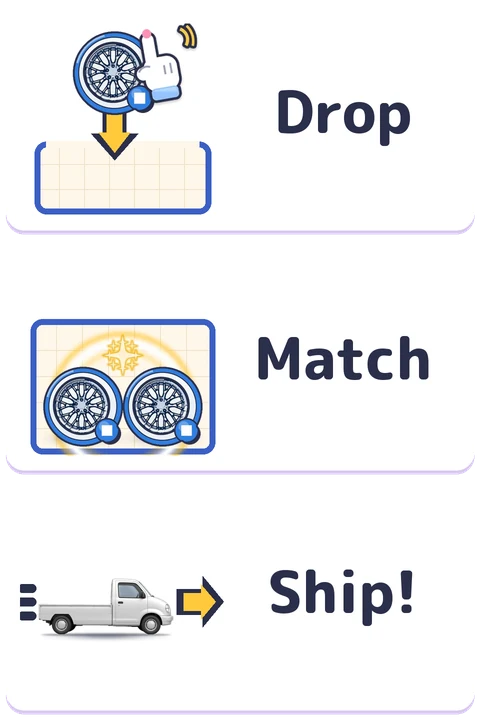
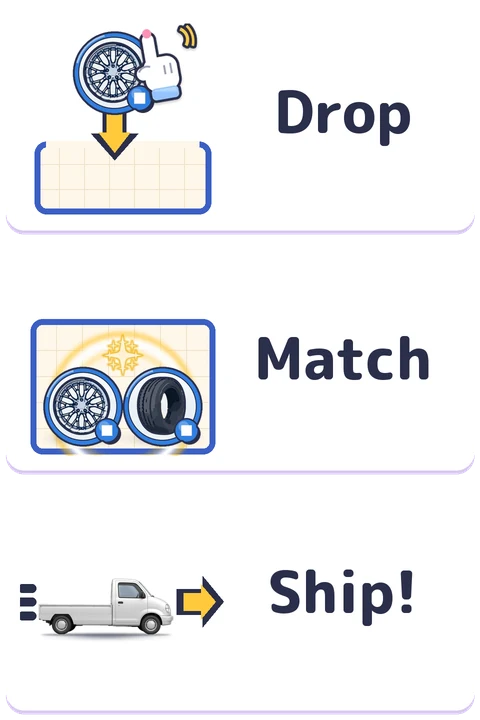
Parts Pop Factory Ver1.0.0-rc (feedback fixes)

Changed region(s): [[0.25, 0.5194, 0.4062, 0.6111]]

diff --git a/index.html b/index.html
@@ -35,17 +35,19 @@
   .ov.loading > h1, .ov.loading > #loadBox{display:block!important}
   #pauseBest{font-size:16px;margin:2px 0 4px}
   /* ボタン：主（黄）と副（白）は あーとの 9-slice（角44px・下に6pxの厚み）。押すと沈む */
-  button{font-family:var(--font);font-weight:800;font-size:20px;padding:4px 18px;margin:8px;min-height:44px;color:var(--ink);background:transparent;border-style:solid;border-width:18px;border-color:transparent;border-image:url('assets/ui/btn_primary_9s.webp') 44 fill / 18px stretch;border-radius:0;line-height:1.2}
+  /* v1.00-rc 11/12：文字をボタンの面の真ん中に（Android で「Play again」が下の縁にかかっていた）。9-slice 下の厚みぶん、下の余白を少し多めに */
+  button{font-family:var(--font);font-weight:800;font-size:20px;padding:0 18px 6px;margin:8px;min-height:44px;color:var(--ink);background:transparent;border-style:solid;border-width:18px;border-color:transparent;border-image:url('assets/ui/btn_primary_9s.webp') 44 fill / 18px stretch;border-radius:0;line-height:1;display:inline-flex;align-items:center;justify-content:center;text-align:center;-webkit-appearance:none;appearance:none;vertical-align:middle}
   button:active{transform:translateY(3px)}
   button.sec,#howBtn,#introReplayBtn,#howBtn2,#muteBtn2,#howNo,#shareBtn,#retryNoBtn,#langRow button{border-image-source:url('assets/ui/btn_secondary_9s.webp')}
   #langRow{margin-top:10px}
+  #langRow.hidden{display:none}
   #langRow button{font-size:15px;padding:0 10px;border-width:14px;border-image-width:14px;opacity:.75}
   #langRow button.on{opacity:1;border-image-source:url('assets/ui/btn_primary_9s.webp')}
   h1{margin:0 0 6px;color:var(--ink);text-shadow:0 2px 0 #fff,0 0 8px rgba(255,255,255,.9)}
   #ovText{margin:6px 0;font-size:15px;line-height:1.5}
-  #startBtn{font-size:26px;padding:4px 36px;border-width:22px;border-image-width:22px}
-  #howBtn,#introReplayBtn,#howBtn2,#muteBtn2,#howNo,#shareBtn{font-size:16px;padding:0 14px;border-width:16px;border-image-width:16px}
-  #howBtn.hidden{display:none}
+  #startBtn{font-size:26px;padding:0 36px 8px;border-width:22px;border-image-width:22px;min-height:52px}
+  #howBtn,#introReplayBtn,#howBtn2,#muteBtn2,#howNo,#shareBtn{font-size:16px;padding:0 14px 6px;border-width:16px;border-image-width:16px}
+  #howBtn.hidden,#catBtn2.hidden,button.hidden{display:none}
   #howBtn:disabled{opacity:.5}
   #startBtn:disabled{opacity:.6;filter:grayscale(.6)}
   #shareBtn.hidden{display:none}
@@ -110,18 +112,28 @@
   @media (max-height: 560px){ .steps3{margin:4px auto;padding:4px 8px} .steps3 .stHand,.steps3 .stPair,.steps3 .stCar{height:44px} .steps3 .stHand{width:44px} }
   .steps3[hidden]{display:none}
   img.howto3{display:block;width:min(480px,92vw);height:auto;margin:6px auto}
-  @media (max-height: 560px){ img.howto3{width:min(330px,92vw);margin:2px auto} }
+  @media (max-height: 560px){
+    img.howto3{width:min(300px,92vw);margin:1px auto}
+    #pauseOv button, #overlay button{margin:3px 8px}
+    #pauseBest{font-size:15px;margin:0 0 2px}
+    #pauseOv h1, #overlay h1{margin:0 0 2px}
+    #pauseOv{padding:0 10px 6px}
+  }
   #howConfirm{overflow-y:auto;justify-content:safe center!important}
   /* v0.9.9 C6：設定画面 */
-  #setOv{position:absolute;inset:0;display:flex;flex-direction:column;align-items:center;justify-content:safe center;gap:8px;background:#FFF7EA;padding:14px;text-align:center;overflow-y:auto}
+  #setOv{position:absolute;inset:0;z-index:40;display:flex;flex-direction:column;align-items:center;justify-content:safe center;gap:8px;background:#FFF7EA;padding:14px;text-align:center;overflow-y:auto}
   #setOv.hidden{display:none!important}
   #setOv h2{margin:0 0 4px;font-size:22px;color:var(--ink)}
   #setOv button.tg{min-width:230px;font-size:17px;border-image-source:url('assets/ui/btn_secondary_9s.webp');padding:0 14px;border-width:16px;border-image-width:16px}
   #setOv button.tg.off{opacity:.8}
   #setOv button.tg b{color:#2F7D4F}#setOv button.tg.off b{color:#8A6A00}
   #credits{font-size:14px;line-height:1.55;color:var(--ink);background:#fff;border:2px solid var(--lav);border-radius:12px;padding:8px 14px;max-width:min(360px,92vw)}
-  #setBack,#setBtn{font-size:16px;padding:0 14px;border-width:16px;border-image-width:16px;border-image-source:url('assets/ui/btn_secondary_9s.webp')}
-  @media (max-height: 560px){ #setOv{gap:4px;padding:6px} #setOv h2{font-size:18px} #credits{font-size:14px;line-height:1.35;padding:4px 10px} }
+  #setBack,#setBtn,#titleSetBtn{font-size:16px;padding:0 14px;border-width:16px;border-image-width:16px;border-image-source:url('assets/ui/btn_secondary_9s.webp')}
+  #titleSetBtn.hidden{display:none}
+  #titleBest{font-size:18px;line-height:1.3;margin:6px 0 4px;color:var(--ink);font-weight:800}
+  #titleBest:empty{display:none}
+  .howNote{font-size:15px;line-height:1.4;margin:4px auto 6px;max-width:min(440px,94vw);color:var(--ink);font-weight:800}
+  @media (max-height: 560px){ #setOv{gap:4px;padding:6px} #setOv h2{font-size:18px} #credits{font-size:14px;line-height:1.35;padding:4px 10px} #titleBest{font-size:16px;margin:2px 0} .howNote{font-size:14px;line-height:1.3;margin:2px auto 4px} }
   #howImg.h{width:min(480px,92vw);height:auto}
   #howImg.v{width:min(72vw,340px);height:auto}
   /* v0.9.8 監査2：横長の左の板に道すじ */
@@ -179,9 +191,12 @@
     <h1 id="gameTitle">パーツポン！工場</h1>
     <div id="loadBox"><div id="loadBar"><div id="loadFill"></div></div><div id="loadPct">0%</div></div>
     <img id="flowTitle" class="howto3" alt="" onerror="this.hidden=true;this.nextElementSibling.hidden=false"><div class="steps3" hidden role="img"><div class="st"><div class="stHand"></div><b class="stT" data-k="step_drop"></b></div><span class="stA">→</span><div class="st"><div class="stPair"><img src="assets/parts_v3/badge_wheel.webp" alt=""><img src="assets/parts_v3/badge_tire.webp" alt=""></div><b class="stT" data-k="step_match"></b></div><span class="stA">→</span><div class="st"><img class="stCar" src="assets/cars/car_lv1_kei.webp" alt=""><b class="stT" data-k="step_ship"></b></div></div>
+    <p class="howNote" id="howNoteTitle"></p>
+    <div id="titleBest"></div>
     <div id="ovText"></div>
     <button id="startBtn" disabled>読み込み中…</button>
     <button id="howBtn" disabled>遊び方</button>
+    <button id="titleSetBtn" class="sec hidden">⚙ 設定</button>
     <script>(function(){ var q = new URLSearchParams(location.search).get('lang'); var l = (q==='ja'||q==='en') ? q : ((navigator.language||'').slice(0,2)==='ja' ? 'ja' : 'en'); if (l==='en'){ document.getElementById('startBtn').textContent='Loading…'; document.getElementById('howBtn').textContent='How to play'; } })();</script>
     <button id="catBtn2" class="hidden"></button>
     <button id="shareBtn" class="hidden"></button>
@@ -191,27 +206,29 @@
   <div id="pauseOv" class="ov hidden">
     <h1 id="pauseTitle"></h1>
     <img class="howto3" alt="" onerror="this.hidden=true;this.nextElementSibling.hidden=false"><div class="steps3" hidden role="img"><div class="st"><div class="stHand"></div><b class="stT" data-k="step_drop"></b></div><span class="stA">→</span><div class="st"><div class="stPair"><img src="assets/parts_v3/badge_wheel.webp" alt=""><img src="assets/parts_v3/badge_tire.webp" alt=""></div><b class="stT" data-k="step_match"></b></div><span class="stA">→</span><div class="st"><img class="stCar" src="assets/cars/car_lv1_kei.webp" alt=""><b class="stT" data-k="step_ship"></b></div></div>
+    <p class="howNote" id="howNotePause"></p>
     <button id="resumeBtn"></button>
     <button id="introReplayBtn"></button>
     <button id="howBtn2"></button>
     <button id="catBtn"></button>
     <button id="setBtn"></button>
     <div id="pauseBest"></div>
-    <div id="setOv" class="hidden">
-      <h2 id="setTitle"></h2>
-      <button id="muteBtn2" class="tg"></button>
-      <button id="bgmBtn" class="tg"></button>
-      <button id="motionBtn" class="tg"></button>
-      <div id="langRow2" style="margin-top:4px"><button id="langJa2" class="sec" style="font-size:15px;padding:0 10px;border-width:14px;border-image-width:14px">日本語</button><button id="langEn2" class="sec" style="font-size:15px;padding:0 10px;border-width:14px;border-image-width:14px">English</button></div>
-      <div id="credits"><b id="credL"></b><br>Music: "Happy Vibes" by Ruskerdax (CC0)<br>Font: M PLUS Rounded 1c (SIL OFL 1.1)<br>Physics: Matter.js (MIT)<br>Game: Timemachine0</div>
-      <button id="setBack"></button>
-    </div>
     <div id="howConfirm" class="hidden" style="position:absolute;inset:0;display:flex;flex-direction:column;align-items:center;justify-content:center;gap:12px;background:#FFF7EA;padding:24px;text-align:center">
       <img id="howImg" alt="">
+      <p class="howNote" id="howNoteHow"></p>
       <p id="howConfirmText" style="color:#2B2F4A;font-weight:800;font-size:17px;line-height:1.5;margin:0 0 6px"></p>
       <button id="howYes"></button>
       <button id="howNo"></button>
     </div>
+  </div>
+  <div id="setOv" class="hidden">
+    <h2 id="setTitle"></h2>
+    <button id="muteBtn2" class="tg"></button>
+    <button id="bgmBtn" class="tg"></button>
+    <button id="motionBtn" class="tg"></button>
+    <div id="langRow2" style="margin-top:4px"><button id="langJa2" class="sec" style="font-size:15px;padding:0 10px;border-width:14px;border-image-width:14px">日本語</button><button id="langEn2" class="sec" style="font-size:15px;padding:0 10px;border-width:14px;border-image-width:14px">English</button></div>
+    <div id="credits"><b id="credL"></b><br>Music: "Happy Vibes" by Ruskerdax (CC0)<br>Font: M PLUS Rounded 1c (SIL OFL 1.1)<br>Physics: Matter.js (MIT)<br>Game: Timemachine0</div>
+    <button id="setBack"></button>
   </div>
   <div id="catOv" class="ov hidden" role="dialog">
     <h1 id="catTitle"></h1>
@@ -559,7 +576,7 @@ const CONFIG = {
   badArtAlso: ['screw','door_window'],   // DR3：ドア／組みかけドアは不良材料から作ると不良絵
   // --- 最初の1回だけの説明（docs/tutorial_spec.md） ---
   // --- v0.9.8 C2：最初の30秒 ---
-  autoStart: true,          // 読み込みが終わったら自動で始める（タイトル画面なし・0タップ）。URL ?autostart=0 で前のタイトル画面（確認用）
+  autoStart: false,         // v1.00-rc 11/12：読み込みのあとタイトル画面。スタートボタンで始める（どこをタップしても始まらない）。テスト用ビルドだけ ?autostart=1 で以前の自動開始
   firstWaitMaxSec: 10,      // 自動で始まったゲームの最初の部品は、最初の操作（触る・キー・マウスを動かす）まで投下の時間を止める（上限・実時間秒）
   onboardPictures: true,    // 説明は絵の3つだけ（指マーク／光る相手＋点線／×→箱の矢印）。ほかの文の説明は出さない
   onbHandSize: 84, onbHandDy: 96, onbHandSwing: 70, onbHandPeriod: 1.2,   // 指マーク（hand_drag.webp 2コマ）：大きさ・持つ位置からの下の距離・左右のふれ幅・周期（秒）
@@ -714,6 +731,11 @@ const ART_MANIFEST = {
   tierParts: ['badge_door','badge_door_bad','badge_door_window','badge_door_window_bad','badge_engine','badge_glass','badge_glass_bad','badge_hinge','badge_hinge_bad',
               'badge_panel','badge_tire_wheel','badge_wheel','badge_wheel_bad'],
   // v0.9.8：遊び方の絵（あーと 2026-11-09 納品・README_handoff 6章）。横 960x320＝320x320 のマス×3、縦 480x720＝480x240 のマス×3
+  // v1.00-rc 11/12：遊び方「そろえる／Match」は、あーと最終版（青いホイール＋タイヤがくっつく絵、art_snapshot_0909）。また差し替えるときは下の 4 ファイルを同じ名前・同じ大きさで上書きするだけ（コードは変えない。swap_art.py でも可）。
+  //   assets/ui/howto3_ja.webp      960×320（横、Match は x=320..640 の 320×320）
+  //   assets/ui/howto3_en.webp      960×320
+  //   assets/ui/howto3_ja_v.webp    480×720（縦、Match は y=240..480 の 480×240）
+  //   assets/ui/howto3_en_v.webp    480×720
   uiDir: 'assets/ui/', howto: [ {file:'howto3_ja', w:960, h:320}, {file:'howto3_en', w:960, h:320}, {file:'howto3_ja_v', w:480, h:720}, {file:'howto3_en_v', w:480, h:720} ],
   howtoCell: { h:{ w:320, h:320, dx:320, dy:0 }, v:{ w:480, h:240, dx:0, dy:240 } },
   carDir: 'assets/cars/', silhouetteDir: 'assets/cars/silhouette/',
@@ -938,7 +960,7 @@ const TEXT = {
     tut_move:'指で左右に動かして、はなすと落ちるよ', tut_merge:'同じ色の部品どうしをくっつけると組み上がる', tut_car:'部品が全部そろうと車が1台できる！',
     tut_bad:'×の付いた部品は端の不適合品箱へ', tut_scrap:'良い部品を捨てるとお金が減るよ', tut_mechanic:'整備士は不良品にぶつかると直してくれる',
     tut_wait:'相手がまだ箱にないよ。先に置いておこう', tut_lines:'上の丸＝ボディ、下の丸＝シャシーのライン', tut_marriage:'灰色どうしをくっつけるとマリッジ！', tut_claim:'×の部品が入ったまま出すとクレーム', howConfirm:'今のゲームを終えて、説明つきで始めますか？', yes:'はい', back:'もどる', introShort:'スライドして離すと落ちる。同じ色をくっつけて車を作ろう！',
-    tut_skip:'説明をとばす', onb_bin:'×→🗑', onb_ok:'OK！', loading:'読み込み中…', bestLine:s=>`ベスト ${s}`, howToPlay:'遊び方', tut_merge_ok:'いいね！', tut_bad_ok:'OK！不良品はただで捨てられるよ',
+    tut_skip:'説明をとばす', onb_bin:'×→🗑', onb_ok:'OK！', loading:'読み込み中…', bestLine:s=>`ベスト ${s}`, howToPlay:'遊び方', howSame:'同じ絵柄どうしはくっつかず、片方が消えます', tut_merge_ok:'いいね！', tut_bad_ok:'OK！不良品はただで捨てられるよ',
     retry_title:'ラインがいっぱい！ つづける？', retry_sub:'上の部品を1段かたづけて、1回だけつづけられるよ',
     retry_ad:'📺 広告を見てつづける', retry_free:'つづける', retry_no:'結果を見る', retry_loading:'広告を読みこみ中…',
     retry_ok:'つづけます！', retry_grace:'つづき！', retry_ad_fail:'広告を出せませんでした。またあとで試してね',
@@ -979,7 +1001,7 @@ const TEXT = {
     tut_move:'Slide left or right, then let go to drop', tut_merge:'Match same-color parts to build them up', tut_car:'All parts in place makes a car!',
     tut_bad:'Drag parts with × to the reject bin at either edge', tut_scrap:'Scrapping good parts costs you money', tut_mechanic:'The mechanic fixes a bad part it touches',
     tut_wait:'No match yet. Drop it, its pair will come', tut_lines:'Top row = body line, bottom = chassis', tut_marriage:'Join the two gray parts: Final assembly!', tut_claim:'Ship a car with a × part: complaint!', howConfirm:'End this game and start with the tutorial?', yes:'Yes', back:'Back', introShort:'Slide, release to drop. Match colors to build a car!',
-    tut_skip:'Skip tutorial', onb_bin:'×→🗑', onb_ok:'OK!', loading:'Loading…', bestLine:s=>`Best ${s}`, howToPlay:'How to play', tut_merge_ok:'Nice!', tut_bad_ok:'Good! Defects are free to scrap',
+    tut_skip:'Skip tutorial', onb_bin:'×→🗑', onb_ok:'OK!', loading:'Loading…', bestLine:s=>`Best ${s}`, howToPlay:'How to play', howSame:'Matching pieces don\'t stick — one of them disappears.', tut_merge_ok:'Nice!', tut_bad_ok:'Good! Defects are free to scrap',
     retry_title:'The line is full! Continue?', retry_sub:'Clear one row of parts and keep going (once per game)',
     retry_ad:'📺 Watch an ad to continue', retry_free:'Continue', retry_no:'See results', retry_loading:'Loading ad…',
     retry_ok:'Let\'s keep going!', retry_grace:'Back to work!', retry_ad_fail:'Couldn\'t show an ad. Please try again later',
@@ -3167,18 +3189,26 @@ function renderOverlay(){
   stepsText();
   copiedEl.textContent = '';
   updateTitle();
-  ov.classList.toggle('loading', overlayMode==='title' && CONFIG.autoStart && !bootDone);   // v0.9.8：自動で始めるときは読み込み画面だけ
+  ov.classList.toggle('loading', overlayMode==='title' && !bootDone);   // 読み込み中はバーだけ。終わったらタイトル（スタートボタン）
+  const titleSet = document.getElementById('titleSetBtn'), titleBest = document.getElementById('titleBest'), langRow = document.getElementById('langRow');
   if (overlayMode==='title'){
     flowTitle.style.display = '';
-    const pr = personalRanks(), best = pr[0];
-    let intro = tutWanted() && T.introShort ? T.introShort : T.intro;   // v0.9.3：説明を見る人には1行
-    if (best) intro += `<div class="res" style="margin-top:8px">${T.personalRank} Best: <b>${best.score}</b>${pp(best.rank)}</div>`;
-    ovText.innerHTML=intro; startBtn.textContent = assetsReady ? T.start : T.loading; startBtn.disabled = !assetsReady;
+    ovText.innerHTML = ''; ovText.style.display = 'none';
+    startBtn.textContent = assetsReady ? T.start : T.loading; startBtn.disabled = !assetsReady;
     shareBtn.classList.add('hidden'); document.getElementById('catBtn2').classList.add('hidden');
     howBtn.textContent = T.howToPlay; howBtn.disabled = !assetsReady; howBtn.classList.remove('hidden');
+    if (titleSet){ titleSet.textContent = '⚙ ' + T.settings; titleSet.classList.toggle('hidden', !assetsReady); titleSet.disabled = !assetsReady; }
+    if (titleBest){ const best = bestEntry(); titleBest.textContent = best ? T.bestLine(`${best.score}${best.rank ? pp(best.rank) : ''}`) : ''; }
+    if (langRow) langRow.classList.add('hidden');   // 言語は設定の中へ（タイトルには出さない）
+    renderHowNotes();
   } else {
     howBtn.classList.add('hidden');
+    if (titleSet) titleSet.classList.add('hidden');
+    if (titleBest) titleBest.textContent = '';
+    if (langRow) langRow.classList.remove('hidden');   // 結果画面では言語を切り替えられる
+    const hn = document.getElementById('howNoteTitle'); if (hn){ hn.textContent = ''; hn.hidden = true; }
     flowTitle.style.display = 'none';
+    ovText.style.display = '';
     const r=window.lastResult || {}, names=CAR_NAMES[lang];
     const title = titleFor(r);
     const head = r.cleared ? (T.clear||'CLEAR') : T.over;
@@ -3219,7 +3249,8 @@ function renderOverlay(){
 }
 function renderPause(){
   stepsText();
-  { const pr = personalRanks(), best = pr[0], el = document.getElementById('pauseBest'); if (el) el.textContent = best ? L().bestLine(`${best.score}${pp(best.rank)}`) : ''; }   // v0.9.8：タイトル画面がないので、ベストは一時停止メニューに
+  { const best = bestEntry(), el = document.getElementById('pauseBest'); if (el) el.textContent = best ? L().bestLine(`${best.score}${best.rank ? pp(best.rank) : ''}`) : ''; }
+  renderHowNotes();
   document.getElementById('langJa2').classList.toggle('on', lang==='ja'); document.getElementById('langEn2').classList.toggle('on', lang==='en');
   document.getElementById('pauseTitle').textContent = L().pause;
   document.getElementById('resumeBtn').textContent = L().resume;
@@ -3258,8 +3289,11 @@ document.getElementById('motionBtn').onclick = ()=>{ Settings.set('reduceMotion'
 document.getElementById('catBtn').onclick = ()=>openCatalog();
 document.getElementById('catBtn2').onclick = ()=>openCatalog();
 document.getElementById('catBack').onclick = ()=>closeCatalog();
-document.getElementById('setBtn').onclick = ()=>{ renderSettings(); document.getElementById('setOv').classList.remove('hidden'); };
-document.getElementById('setBack').onclick = ()=>{ document.getElementById('setOv').classList.add('hidden'); renderPause(); };
+function openSettings(){ renderSettings(); document.getElementById('setOv').classList.remove('hidden'); }
+function closeSettings(){ document.getElementById('setOv').classList.add('hidden'); if (state.paused) renderPause(); else renderOverlay(); }
+document.getElementById('setBtn').onclick = openSettings;
+document.getElementById('titleSetBtn').onclick = openSettings;
+document.getElementById('setBack').onclick = closeSettings;
 // v0.9.9 A8：ボタンを押したときの「ポッ」（一時停止中は無音のルールなので、遊んでいる画面・結果画面だけ鳴る）
 document.addEventListener('click', e => { if (e.target && e.target.closest && e.target.closest('button')) sfx('ui_tap'); }, true);
 document.addEventListener('visibilitychange', ()=>{ if (document.hidden){ keysClear(); pauseGame(true); bgmUpdate(true); try{ if (actx && actx.state === 'running') actx.suspend(); }catch(e){} } else resumeAudio(); });   // v0.9.9：隠れたら無音
@@ -3327,6 +3361,18 @@ function savePersonalRank(entry){
   return list;
 }
 function personalRanks(){ const list = Store.get('personalRanks', []); return Array.isArray(list) ? list : []; }
+// v1.00-rc 11/12：自己最高は既存の qr_personalRanks / qr_bestScore を読む（新しいキーは作らない）
+function bestEntry(){
+  const pr = personalRanks();
+  if (pr[0] && pr[0].score != null && pr[0].score !== '') return pr[0];
+  const s = Store.get('bestScore', 0);
+  if (s) return { score: s, rank: '' };
+  return null;
+}
+function renderHowNotes(){
+  const t = (L().howSame || '');
+  document.querySelectorAll('.howNote').forEach(el => { el.textContent = t; el.hidden = !t; });
+}
 function finishClear(){
   if (state.cleared) return;
   state.cleared = true;
@@ -3462,7 +3508,7 @@ shareBtn.onclick = ()=>{
   const done = ()=>{ copiedEl.textContent = L().copied; };
   try{ navigator.clipboard.writeText(text).then(done, ()=>{ copiedEl.textContent = text; }); }catch(e){ copiedEl.textContent = text; }
 };
-function setAssetsReady(){ if (assetsReady) return; assetsReady = true; buildGrayBadges(); renderOverlay(); setTimeout(()=>{ loadFx(); preloadTiers(1); buildGrayBadges(); }, 0); }
+function setAssetsReady(){ if (assetsReady) return; assetsReady = true; buildGrayBadges(); renderOverlay(); setTimeout(()=>{ buildGrayBadges(); }, 0); }   // v1.00-rc 11/12：cut-in・紙吹雪は startGame（gameplayStart）まで読まない（C9）。startGame が loadFx / preloadTiers を呼ぶ
 document.getElementById('langJa').onclick = ()=>{ lang='ja'; Settings.set('lang','ja'); updateTitle(); renderOverlay(); renderPause(); updatePanels(true); };
 document.getElementById('langJa2').onclick = ()=>document.getElementById('langJa').onclick();   // v0.9.8：言語の切り替えは一時停止メニューへ（v0.99 で設定画面）
 document.getElementById('langEn2').onclick = ()=>document.getElementById('langEn').onclick();
@@ -3519,6 +3565,10 @@ window.addEventListener('keydown', e => {
   const onBtn = e.target && e.target.tagName === 'BUTTON' && visible(e.target.closest('.ov') || e.target);
   if (onBtn && (k === ' ' || k === 'Enter' || c === 'Space')) return;   // フォーカスのあるボタンはブラウザの標準動作（押す）
   if (isL || isR || isDrop || k === 'ArrowUp') e.preventDefault();   // iframe の親ページがスクロールしないように
+  if (visible(document.getElementById('setOv'))){
+    if (isOk && !e.repeat) closeSettings();
+    return;
+  }
   if (visible(retryOv)){
     if (isOk && !e.repeat && state.retryOffer && !state.retryOffer.busy){ const b = ['retryFreeBtn'].map(id => document.getElementById(id)).find(b => b && visible(b) && !b.disabled); if (b) b.click(); }
     return;
